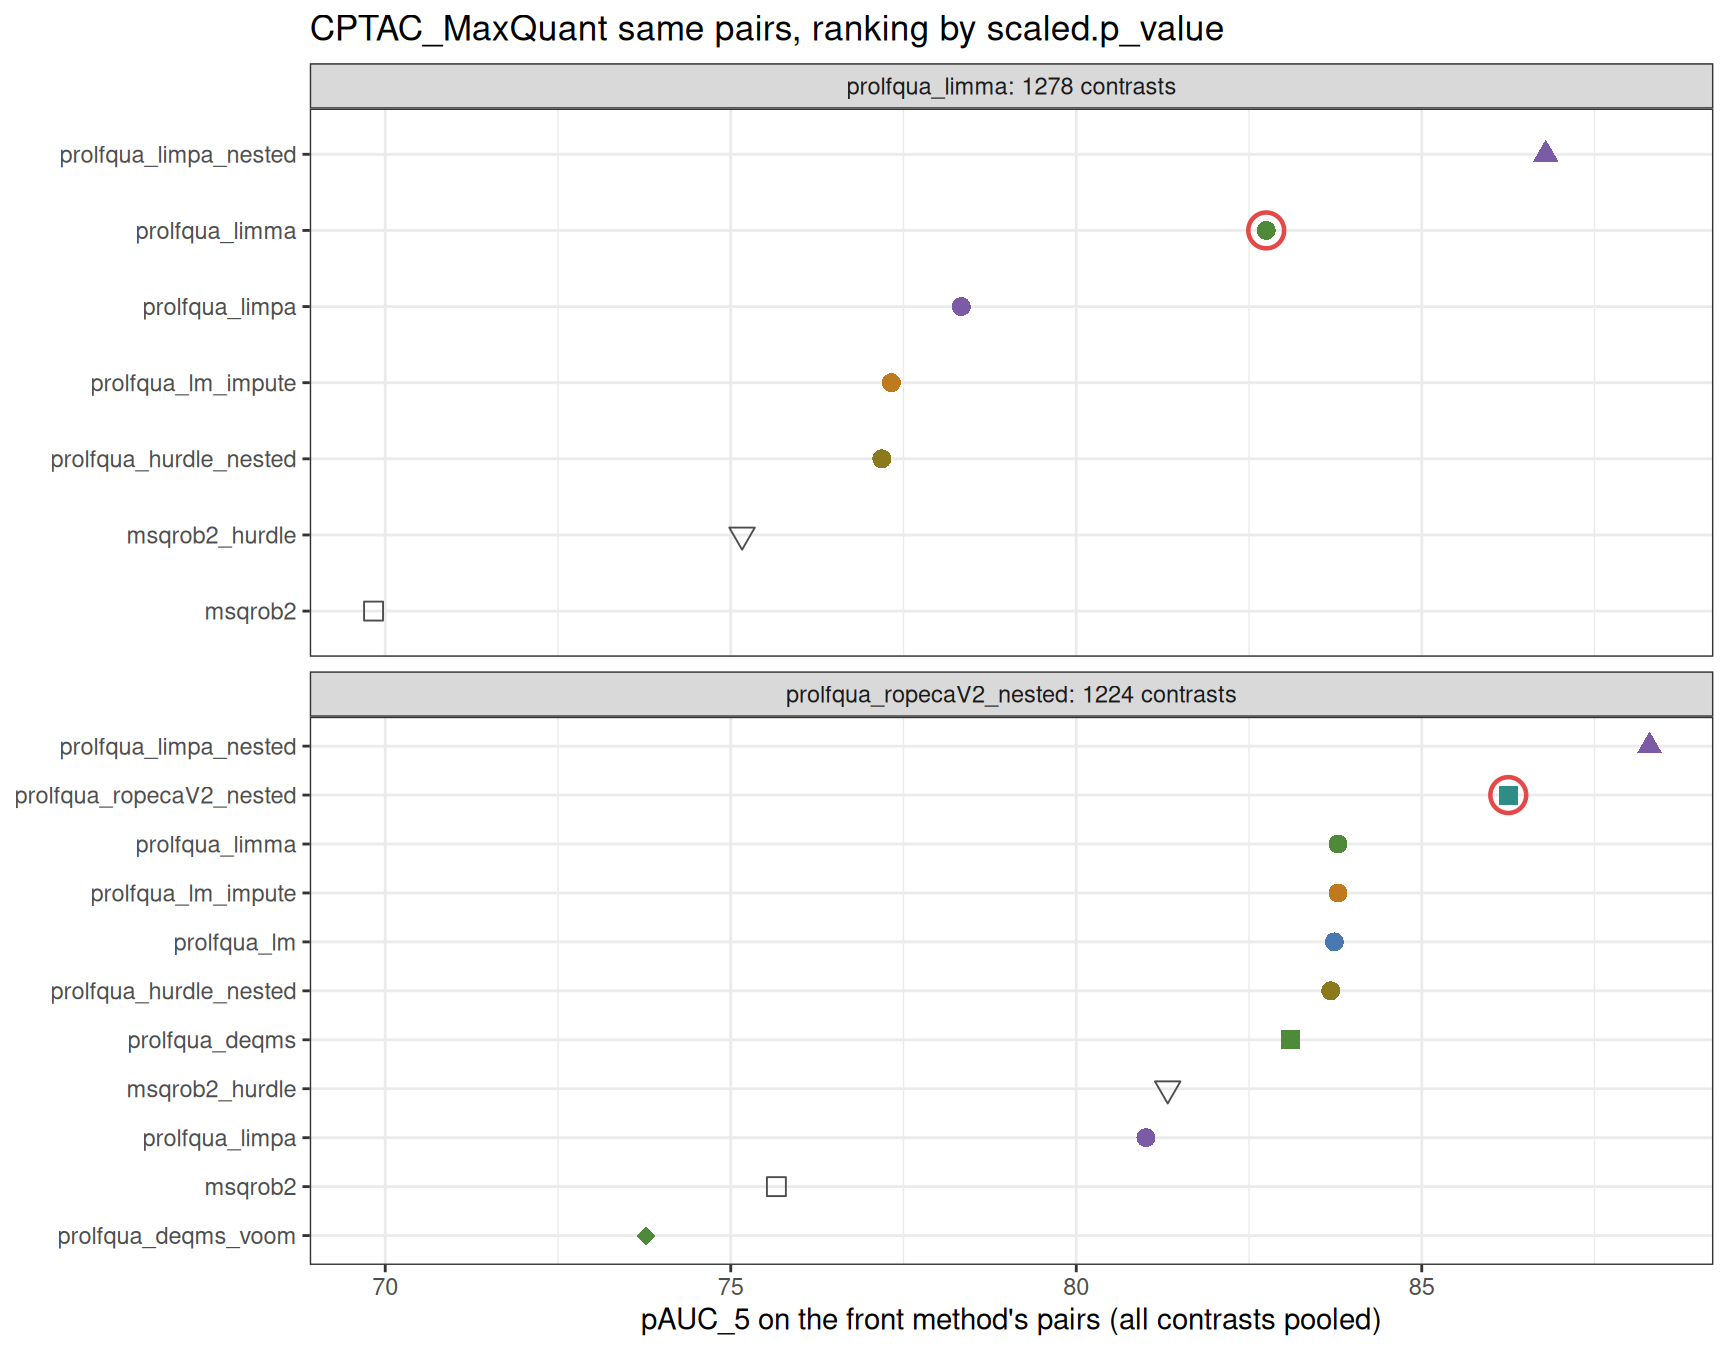
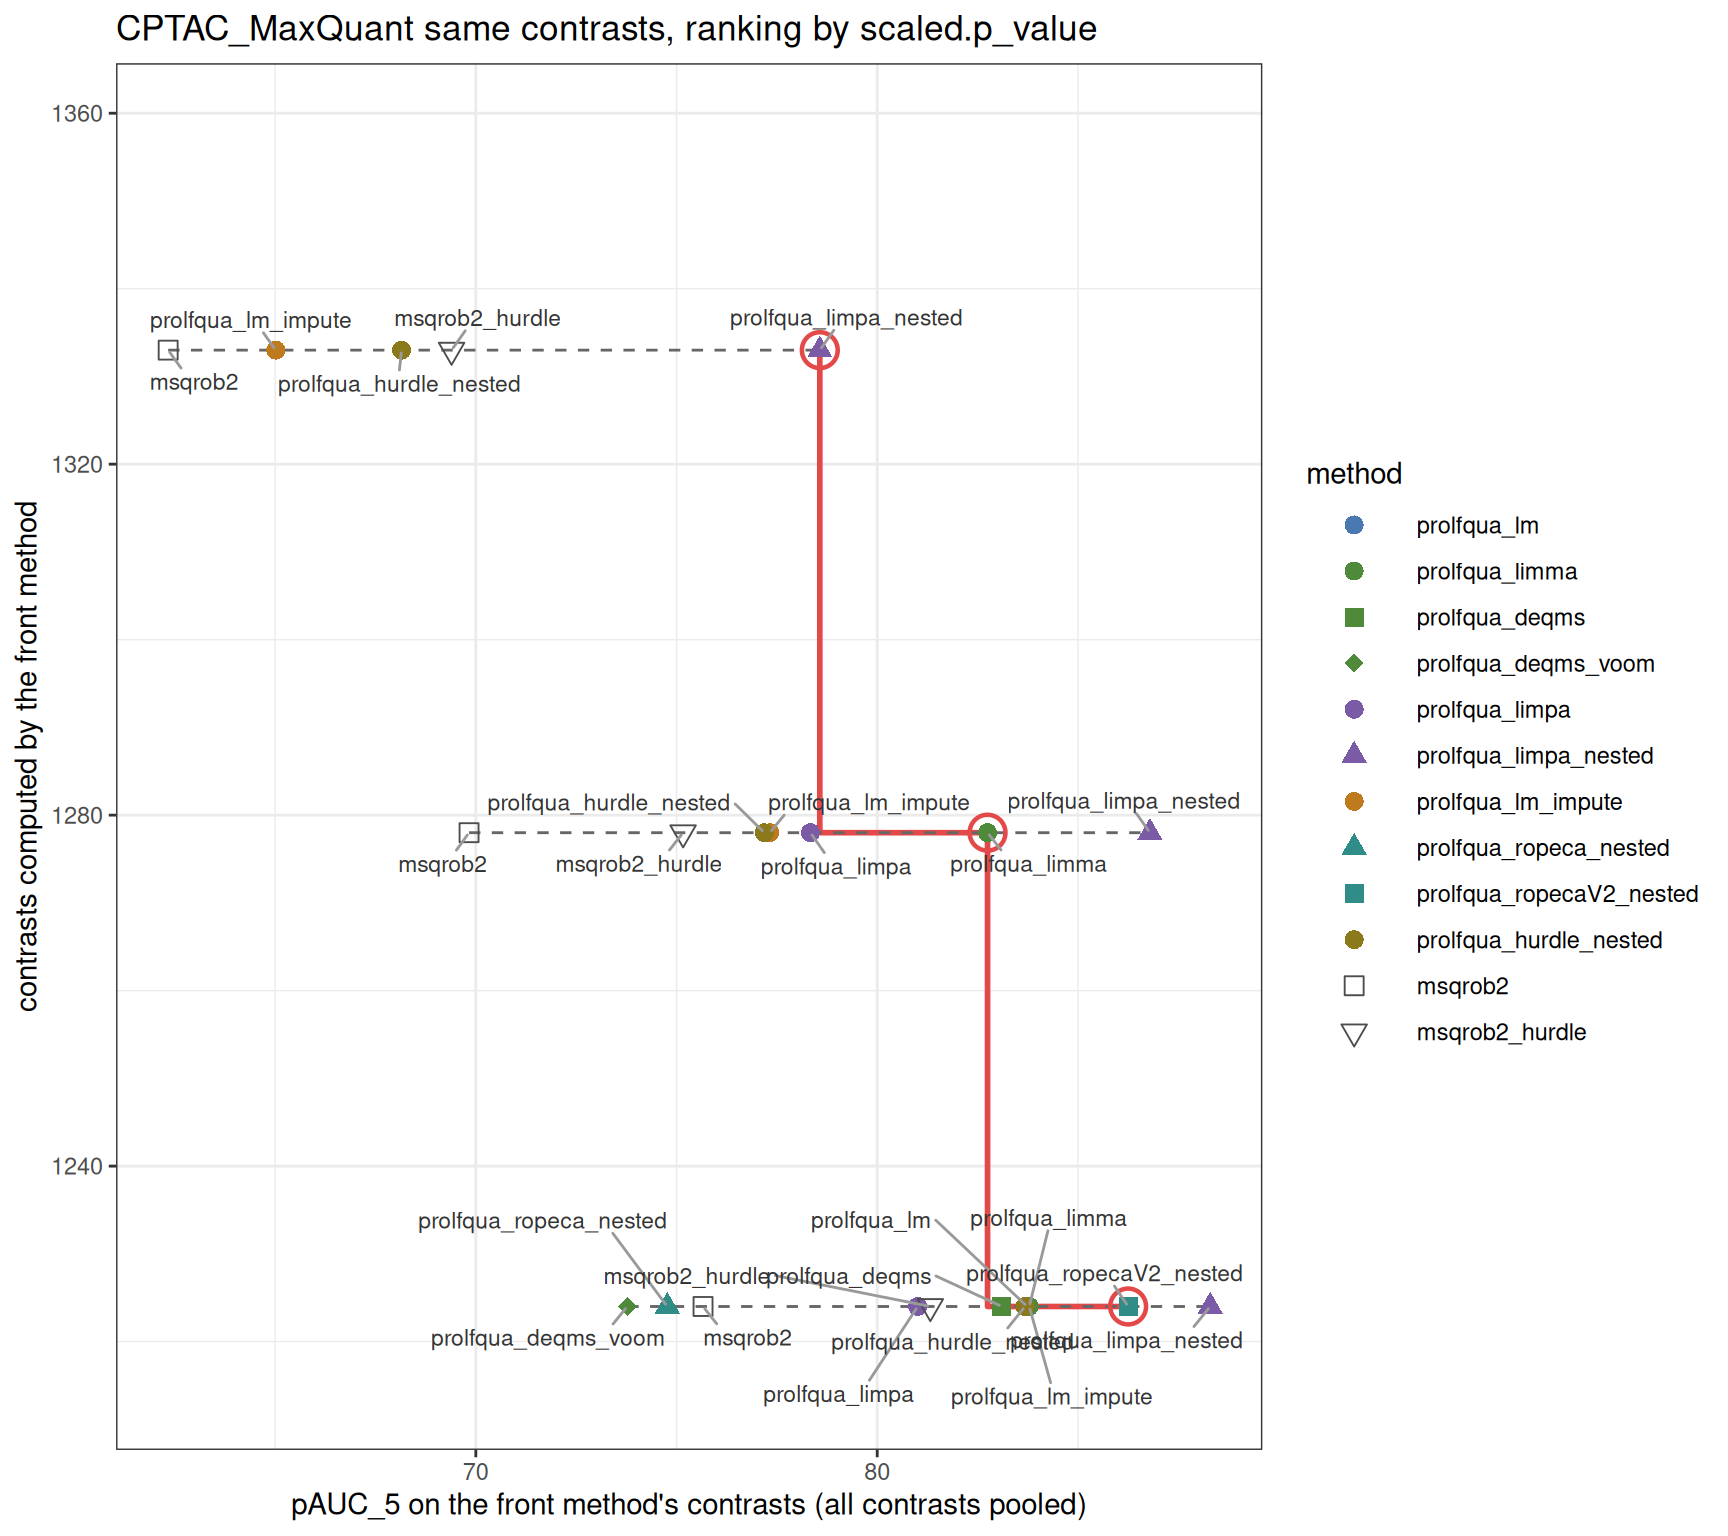
Deploying to gh-pages from @ prolfqua/prolfquabenchmark@9f370b9f82f3c9d560e975441fc31cd4f91674c1 🚀

diff --git a/vignettes/Benchmark_results.html b/vignettes/Benchmark_results.html
@@ -295,7 +295,7 @@ ul.task-list li input[type="checkbox"] {
 <li>AUC, pAUC_5, pAUC_10: area under the ROC curve, and partial area up to a false positive rate of 0.05 or 0.1, on a 0 to 100 scale, with all contrasts of a dataset pooled</li>
 <li>Contrasts computed: protein and contrast pairs with a result for the ranking score, all contrasts together. Each method is scored on the pairs it computes, so pAUC_5 is plotted against this count</li>
 <li>Pareto front (red): the methods no other method beats on both pAUC_5 and contrasts computed</li>
-<li>Same pairs: a method may be on the front because it tests fewer, easier proteins. The methods that test a strict superset of its protein and contrast pairs are scored again on exactly these pairs (<code>same_pairs_scores()</code>; figure after the Pareto front, ranking by scaled p-value; <code>benchmark_same_pairs.tsv</code> has all three ranking scores)</li>
+<li>Same pairs: a method may be on the front because it tests fewer, easier proteins. The methods that test all its protein and contrast pairs (the same or more) are scored again on exactly these pairs (<code>same_pairs_scores()</code>; figure after the Pareto front, ranking by scaled p-value; <code>benchmark_same_pairs.tsv</code> has all three ranking scores)</li>
 <li>Level: <code>protein</code> (model fitted to protein abundances), <code>peptide</code> (model fitted to peptides, one result per protein), <code>protein + peptide</code> (hurdle: intensity on proteins, detection on peptides)</li>
 <li>FDP vs FDR: the false discovery proportion at each nominal FDR; a calibrated FDR lies on the diagonal</li>
 <li>Encoding: colour is the model family of the <a href="https://github.com/fgcz/prolfqua#readme">prolfqua factory figure</a> (linear models, limma, limpa, LOD imputation, peptide level, hurdle); point shape and line type tell the models of a family apart; external tools are dark grey with open shapes. A method looks the same in every figure here and in the vignette <code>Score_history</code> (<code>method_scales()</code>, styles from prolfqua’s <code>facade_styles.tsv</code>)</li>
@@ -669,7 +669,7 @@ msqrob2 hurdle; Fisher combination of the intensity and detection p-values
 <div class="cell-output-display">
 <div class="quarto-figure quarto-figure-center">
 <figure class="figure"><p><img src="Benchmark_results_files/figure-html/unnamed-chunk-7-1.png" class="img-fluid figure-img" width="864"></p>
-<figcaption>Ranking accuracy on the same proteins on IonStar_MaxQuant, ranking by scaled p-value. Each panel is a method on the Pareto front of the figure above (red circle) with the methods that test every protein and contrast it tests and more; all are scored on the front method’s pairs only (pAUC_5, all 4 contrasts pooled). A method to the right of the red circle ranks these proteins better: the front method’s position then comes from testing fewer, easier proteins rather than from ranking them better.</figcaption></figure>
+<figcaption>Ranking accuracy on the same contrasts on IonStar_MaxQuant, ranking by scaled p-value. The red staircase is the Pareto front of the figure above. Each dashed line starts at a front method (red circle) and holds the methods that compute every contrast it computes, the same or more; they are scored on the front method’s contrasts only (pAUC_5, all 4 contrasts pooled), so all points of a line have the front method’s number of contrasts computed. A method to the right of the red circle ranks these contrasts better: the front method’s position then comes from computing fewer, easier contrasts rather than from ranking them better.</figcaption></figure>
 </div>
 </div>
 </div>
@@ -1124,7 +1124,7 @@ protein
 <div class="cell-output-display">
 <div class="quarto-figure quarto-figure-center">
 <figure class="figure"><p><img src="Benchmark_results_files/figure-html/unnamed-chunk-11-1.png" class="img-fluid figure-img" width="864"></p>
-<figcaption>Ranking accuracy on the same proteins on IonStar_MaxQuant_protein, ranking by scaled p-value. Each panel is a method on the Pareto front of the figure above (red circle) with the methods that test every protein and contrast it tests and more; all are scored on the front method’s pairs only (pAUC_5, all 4 contrasts pooled). A method to the right of the red circle ranks these proteins better: the front method’s position then comes from testing fewer, easier proteins rather than from ranking them better.</figcaption></figure>
+<figcaption>Ranking accuracy on the same contrasts on IonStar_MaxQuant_protein, ranking by scaled p-value. The red staircase is the Pareto front of the figure above. Each dashed line starts at a front method (red circle) and holds the methods that compute every contrast it computes, the same or more; they are scored on the front method’s contrasts only (pAUC_5, all 4 contrasts pooled), so all points of a line have the front method’s number of contrasts computed. A method to the right of the red circle ranks these contrasts better: the front method’s position then comes from computing fewer, easier contrasts rather than from ranking them better.</figcaption></figure>
 </div>
 </div>
 </div>
@@ -1435,7 +1435,7 @@ protein
 <div class="cell-output-display">
 <div class="quarto-figure quarto-figure-center">
 <figure class="figure"><p><img src="Benchmark_results_files/figure-html/unnamed-chunk-15-1.png" class="img-fluid figure-img" width="864"></p>
-<figcaption>Ranking accuracy on the same proteins on IonStar_FragPipe_MSstats, ranking by scaled p-value. Each panel is a method on the Pareto front of the figure above (red circle) with the methods that test every protein and contrast it tests and more; all are scored on the front method’s pairs only (pAUC_5, all 4 contrasts pooled). A method to the right of the red circle ranks these proteins better: the front method’s position then comes from testing fewer, easier proteins rather than from ranking them better.</figcaption></figure>
+<figcaption>Ranking accuracy on the same contrasts on IonStar_FragPipe_MSstats, ranking by scaled p-value. The red staircase is the Pareto front of the figure above. Each dashed line starts at a front method (red circle) and holds the methods that compute every contrast it computes, the same or more; they are scored on the front method’s contrasts only (pAUC_5, all 4 contrasts pooled), so all points of a line have the front method’s number of contrasts computed. A method to the right of the red circle ranks these contrasts better: the front method’s position then comes from computing fewer, easier contrasts rather than from ranking them better.</figcaption></figure>
 </div>
 </div>
 </div>
@@ -1918,7 +1918,7 @@ peptide
 <div class="cell-output-display">
 <div class="quarto-figure quarto-figure-center">
 <figure class="figure"><p><img src="Benchmark_results_files/figure-html/unnamed-chunk-19-1.png" class="img-fluid figure-img" width="864"></p>
-<figcaption>Ranking accuracy on the same proteins on IonStar_FragPipe_protein, ranking by scaled p-value. Each panel is a method on the Pareto front of the figure above (red circle) with the methods that test every protein and contrast it tests and more; all are scored on the front method’s pairs only (pAUC_5, all 4 contrasts pooled). A method to the right of the red circle ranks these proteins better: the front method’s position then comes from testing fewer, easier proteins rather than from ranking them better.</figcaption></figure>
+<figcaption>Ranking accuracy on the same contrasts on IonStar_FragPipe_protein, ranking by scaled p-value. The red staircase is the Pareto front of the figure above. Each dashed line starts at a front method (red circle) and holds the methods that compute every contrast it computes, the same or more; they are scored on the front method’s contrasts only (pAUC_5, all 4 contrasts pooled), so all points of a line have the front method’s number of contrasts computed. A method to the right of the red circle ranks these contrasts better: the front method’s position then comes from computing fewer, easier contrasts rather than from ranking them better.</figcaption></figure>
 </div>
 </div>
 </div>
@@ -2227,7 +2227,7 @@ protein
 <div class="cell-output-display">
 <div class="quarto-figure quarto-figure-center">
 <figure class="figure"><p><img src="Benchmark_results_files/figure-html/unnamed-chunk-23-1.png" class="img-fluid figure-img" width="864"></p>
-<figcaption>Ranking accuracy on the same proteins on CPTAC_MaxQuant, ranking by scaled p-value. Each panel is a method on the Pareto front of the figure above (red circle) with the methods that test every protein and contrast it tests and more; all are scored on the front method’s pairs only (pAUC_5, one contrast). A method to the right of the red circle ranks these proteins better: the front method’s position then comes from testing fewer, easier proteins rather than from ranking them better.</figcaption></figure>
+<figcaption>Ranking accuracy on the same contrasts on CPTAC_MaxQuant, ranking by scaled p-value. The red staircase is the Pareto front of the figure above. Each dashed line starts at a front method (red circle) and holds the methods that compute every contrast it computes, the same or more; they are scored on the front method’s contrasts only (pAUC_5, one contrast), so all points of a line have the front method’s number of contrasts computed. A method to the right of the red circle ranks these contrasts better: the front method’s position then comes from computing fewer, easier contrasts rather than from ranking them better.</figcaption></figure>
 </div>
 </div>
 </div>

diff --git a/NEWS.html b/NEWS.html
@@ -287,7 +287,7 @@ ul.task-list li input[type="checkbox"] {
 <h1>prolfquabenchmark 0.3.4</h1>
 <ul>
 <li><p><code>Benchmark_results</code> plots pAUC_5 against the number of contrasts computed (protein and contrast pairs with a result, all contrasts together) instead of the proteins tested averaged over the contrasts; the Pareto front is the same. The same-pairs panels and <code>benchmark_same_pairs.tsv</code> give the front method’s contrasts computed (column <code>contrasts</code>).</p></li>
-<li><p>Same pairs: a method may be on the Pareto front because it tests fewer, easier proteins. The new pipeline step <code>score_same_pairs</code> scores every method that tests a strict superset of a front method’s protein and contrast pairs on exactly these pairs (<code>inst/extdata/benchmark_same_pairs.tsv</code>), and <code>Benchmark_results</code> shows them per dataset in a figure after the Pareto front. New exported functions <code>same_pairs_scores()</code>, <code>score_on_pairs()</code> and <code>pareto_optimal()</code>; the pairs come from prolfqua’s <code>ContrastsComparison</code>, so prolfquabenchmark now requires prolfqua 1.9.8.</p></li>
+<li><p>Same pairs: a method may be on the Pareto front because it tests fewer, easier proteins. The new pipeline step <code>score_same_pairs</code> scores every method that tests all the pairs of a front method’s protein and contrast pairs on exactly these pairs (<code>inst/extdata/benchmark_same_pairs.tsv</code>), and <code>Benchmark_results</code> shows them per dataset in a figure after the Pareto front: one dashed line per front method at its number of contrasts computed, with the methods scored on its contrasts. New exported functions <code>same_pairs_scores()</code>, <code>score_on_pairs()</code> and <code>pareto_optimal()</code>; the pairs come from prolfqua’s <code>ContrastsComparison</code>, so prolfquabenchmark now requires prolfqua 1.9.8.</p></li>
 <li><p>Benchmark rerun with prolfqua 1.9.7 and its scores added to the score history. prolfqua 1.9.6 computes each protein’s limma contrasts from its own observed samples: <code>prolfqua_limma</code>, <code>prolfqua_deqms_voom</code>, <code>prolfqua_limpa</code> and <code>prolfqua_limpa_nested</code> score higher (pAUC_5 on IonStar MaxQuant: limma 63.9 to 69.2, deqms_voom 57.9 to 64.5, limpa 60.0 to 67.0), and the vooma methods test more proteins; the other methods are unchanged.</p></li>
 <li><p>The documentation site is built with altdoc (<code>make site</code>, GitHub workflow <code>altdoc.yml</code>) instead of pkgdown; the vignettes are at <code>https://prolfqua.github.io/prolfquabenchmark/vignettes/&lt;name&gt;.html</code> (formerly <code>articles/</code>). The vignettes read the benchmark tables of the installed package, so run <code>make install</code> after <code>make benchmark</code> before rendering them.</p></li>
 <li><p><code>Benchmark_results</code> lists the methods once each (16 rows instead of one per dataset and method), with the number of datasets they ran on; the per-dataset rows and fit times are in the linked <code>benchmark_methods.tsv</code>.</p></li>

diff --git a/man/same_pairs_scores.html b/man/same_pairs_scores.html
@@ -287,7 +287,7 @@ ul.task-list li input[type="checkbox"] {
 <h2 class="unnumbered anchored" data-anchor-id="scores-of-methods-on-the-protein-and-contrast-pairs-of-a-method-on-the-pareto-front">Scores of methods on the protein and contrast pairs of a method on the Pareto front</h2>
 <section id="description" class="level3">
 <h3 class="anchored" data-anchor-id="description">Description</h3>
-<p>A method on the Pareto front of pAUC_5 against contrasts computed may be there because it tests fewer proteins, an easier set. For each ranking score and each front method, the methods that test a strict superset of its pairs are scored on exactly these pairs with [score_on_pairs()]. The pairs a method tests come from [prolfqua::ContrastsComparison]: with ‘log_fc’ the pairs with a fold change, with ‘t_statistic’ those with a t statistic, with ‘scaled.p_value’ those with a fold change and a p-value.</p>
+<p>A method on the Pareto front of pAUC_5 against contrasts computed may be there because it tests fewer proteins, an easier set. For each ranking score and each front method, the other methods that test every one of its pairs are scored on exactly these pairs with [score_on_pairs()]. The pairs a method tests come from [prolfqua::ContrastsComparison]: with ‘log_fc’ the pairs with a fold change, with ‘t_statistic’ those with a t statistic, with ‘scaled.p_value’ those with a fold change and a p-value.</p>
 </section>
 <section id="usage" class="level3">
 <h3 class="anchored" data-anchor-id="usage">Usage</h3>
